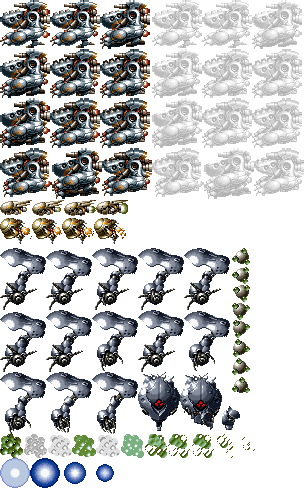
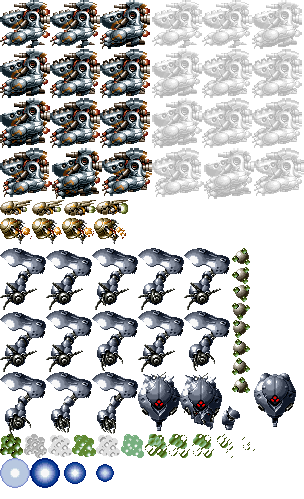
adding legs and middleboss frame

Changed region(s): [[0.8289, 0.7515, 0.977, 0.8717]]

diff --git a/Code/LastResortCode/MiddleBosslvl1.cpp b/Code/LastResortCode/MiddleBosslvl1.cpp
@@ -18,7 +18,7 @@ Enemy_MetalCraw::Enemy_MetalCraw(int x, int y) : Enemy(x, y)
 	Arm.PushBack({ 138,248,46,62 });
 	Arm.PushBack({ 184,248,46,62 });
 	Arm.speed = 0.2f;
-
+	Leg = {222,406,18,24};
 	collider = App->collision->AddCollider({ -97, 6, 42, 42 }, COLLIDER_TYPE::COLLIDER_ENEMY, (Module*)App->enemies);
 	lives = 20;
 	start_time = SDL_GetTicks();
@@ -46,9 +46,14 @@ void  Enemy_MetalCraw::Draw(SDL_Texture* sprites)
 
 	if (animation != nullptr)
 	{
+		App->render->Blit(sprites, position.x, position.y + App->render->relative_camera.y, &(animation->GetCurrentFrame()));
+
 		App->render->Blit(sprites, position.x-42, position.y-5 + App->render->relative_camera.y, &(Arm.GetCurrentFrame()));
 		App->render->FlippedBlit(sprites, position.x+ 42, position.y-5 + App->render->relative_camera.y, &(Arm.GetCurrentFrame()));
-		App->render->Blit(sprites, position.x, position.y + App->render->relative_camera.y, &(animation->GetCurrentFrame()));
+	
+
+		App->render->Blit(sprites, position.x - 5, position.y - 5 + App->render->relative_camera.y, &Leg);
+		App->render->FlippedBlit(sprites, position.x +5, position.y - 5 + App->render->relative_camera.y, &Leg);
 	}
 		
 

diff --git a/Code/LastResortCode/ModuleStage01.cpp b/Code/LastResortCode/ModuleStage01.cpp
@@ -96,21 +96,14 @@ bool ModuleStage01::Start()
 	App->enemies->AddEnemy(ENEMY_TYPES::BASIC, 590, 143);
 	App->enemies->AddEnemy(ENEMY_TYPES::BASIC, 1200, 25);
 	App->enemies->AddEnemy(ENEMY_TYPES::POWERDROPPER, 1976, 136);
-<<<<<<< HEAD
-	App->enemies->AddEnemy(ENEMY_TYPES::METALCROWTORSO, 600, SCREEN_HEIGHT);
-	App->enemies->AddEnemy(ENEMY_TYPES::METALCROWARM, 400, SCREEN_HEIGHT);
 
-=======
 
-<<<<<<< HEAD
+
+
+
 	App->enemies->AddEnemy(ENEMY_TYPES::METALCROW, 300, SCREEN_HEIGHT);
 	
-=======
-	App->enemies->AddEnemy(ENEMY_TYPES::METALCROWARM, 600, SCREEN_HEIGHT+100);
-	App->enemies->AddEnemy(ENEMY_TYPES::METALCROWLEFTARM, 600, SCREEN_HEIGHT + 100);
-	App->enemies->AddEnemy(ENEMY_TYPES::METALCROWTORSO, 600, SCREEN_HEIGHT+100);
->>>>>>> 16e612b74ca6f2b185cfe1caec5345e4b93b3d9f
->>>>>>> origin/master
+
 	//define moveCamera struct values
 	
 	MoveCamera.ymgPos = 0;

diff --git a/Code/LastResortCode/MiddleBosslvl1.h b/Code/LastResortCode/MiddleBosslvl1.h
@@ -11,6 +11,7 @@ private:
 	int original_y = 0;
 	Animation torso;
 	Animation Arm;
+	SDL_Rect Leg;
 
 	Uint32 start_time = SDL_GetTicks();
 	Uint32 current_time;
